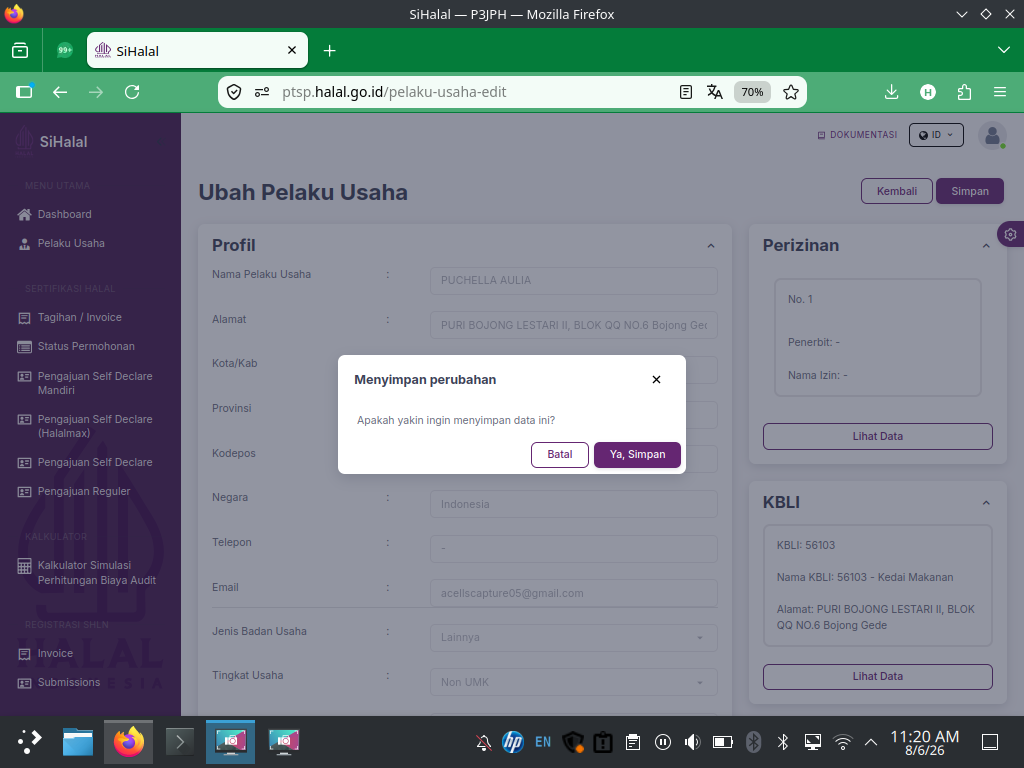
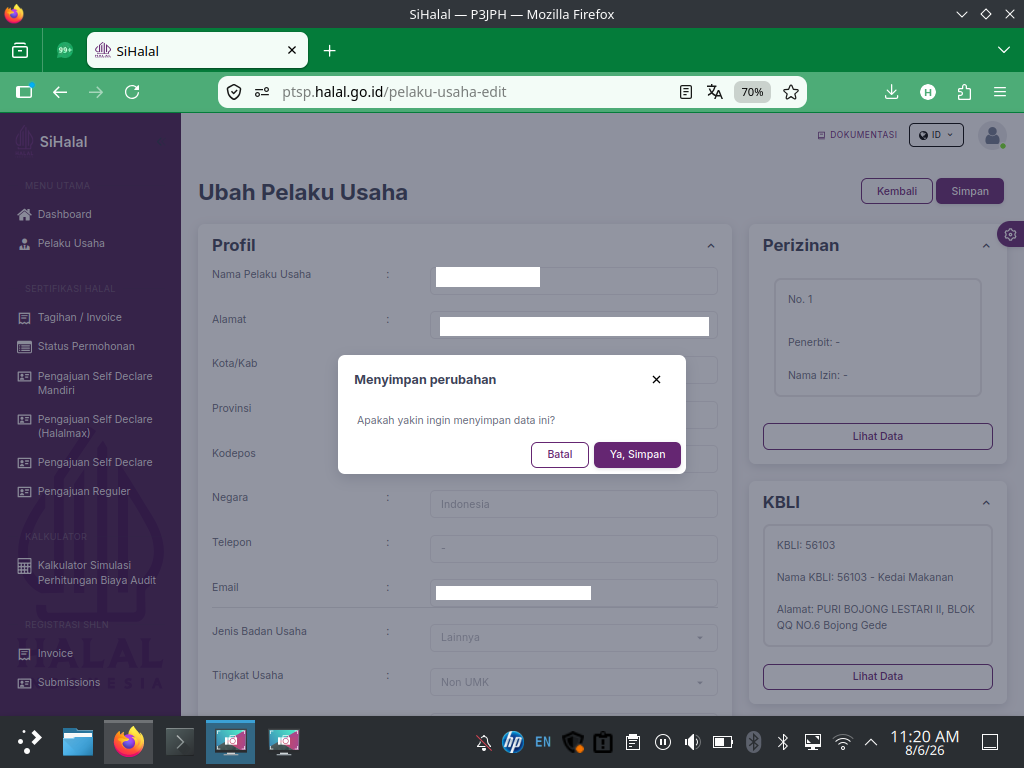
Replace 5 re-censored PU screenshots; compare image content, not mtime
Re-censored: 09-pu-edit7, 10-sub0, 10-sub1-kbli, 10-sub1-ovw, 10-sub2.

build.py previously decided whether to copy an image by comparing mtimes.
That heuristic is unsound: a re-saved image can carry an mtime older than
the copy already in the repo (editors that preserve timestamps, restored
backups, rsync -t), so a stale -- and here, insufficiently redacted --
image would stay committed with no warning. It did in fact skip files in
this batch. Compare size and then md5 instead.

Changed region(s): [[0.4062, 0.4062, 0.7188, 0.4375], [0.4062, 0.75, 0.5938, 0.7812], [0.4062, 0.3438, 0.5312, 0.375]]

diff --git a/build.py b/build.py
@@ -7,6 +7,7 @@ Re-run any time you add, rename, or delete screenshots.
 
 To customise a step's caption, edit OVERRIDES below (key = output filename).
 """
+import hashlib
 import json
 import os
 import re
@@ -71,6 +72,29 @@ ACRONYMS = {
 }
 
 
+def digest(path):
+    h = hashlib.md5()
+    with open(path, "rb") as fh:
+        for chunk in iter(lambda: fh.read(1 << 20), b""):
+            h.update(chunk)
+    return h.digest()
+
+
+def differs(src, dst):
+    """True if dst is missing or its bytes differ from src.
+
+    Compares content, not mtime. A re-saved image can end up with an mtime
+    older than the copy already in the repo -- restored backups, editors that
+    preserve timestamps, rsync -t -- and an mtime check would silently leave a
+    stale image committed. Size is compared first since it is free.
+    """
+    if not os.path.exists(dst):
+        return True
+    if os.path.getsize(src) != os.path.getsize(dst):
+        return True
+    return digest(src) != digest(dst)
+
+
 def natural_key(path):
     """Sort key that orders 2 before 10 and 10-sub3-4 before 10-sub3-4a."""
     stem, ext = os.path.splitext(os.path.basename(path))
@@ -122,7 +146,7 @@ def build_gallery(key, spec):
         out_name = rename.get(name, name)
         dst = os.path.join(out_dir, out_name)
         src = os.path.join(src_dir, name)
-        if not os.path.exists(dst) or os.path.getmtime(src) > os.path.getmtime(dst):
+        if differs(src, dst):
             shutil.copy2(src, dst)
             copied += 1
         stem = os.path.splitext(out_name)[0]
